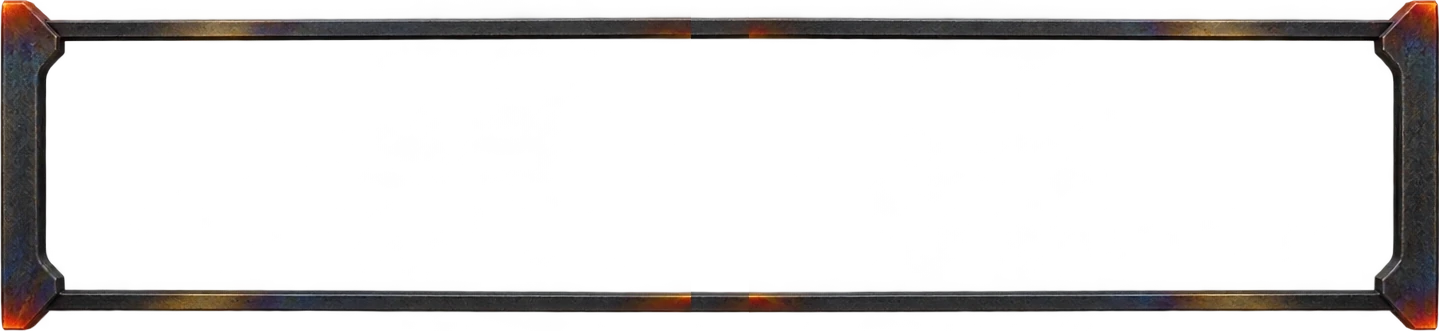
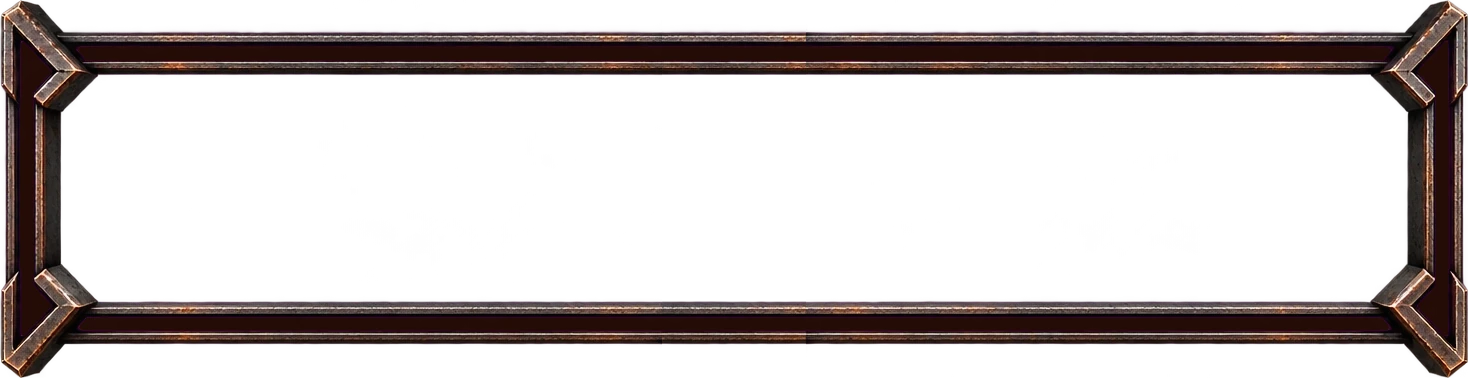
Infernal skin: a new frame with a channel along its rails, brackets and pointers where molten lava flows and glows (also in the launch plate's corners)

diff --git a/ui/app.css b/ui/app.css
@@ -1997,9 +1997,9 @@ img.ring-master { box-shadow: 0 0 10px rgba(255, 211, 107, .75); }
 .strip-hud .pt { top: 0; height: calc(var(--pth) * var(--k) * 1px); --img: var(--ptr-t); --gl: var(--ptr-t-glow); }
 .strip-hud .pb { bottom: 0; height: calc(var(--pbh) * var(--k) * 1px); --img: var(--ptr-b); --gl: var(--ptr-b-glow); }
 :root[data-roulette="infernal"] .strip-hud { display: block; }
-:root[data-roulette="infernal"] :is(.strip, .gs-strip) { --edge-t: 19; --edge-b: 20; --edge-s: 1; --k: 0.85; --top: 40; --bottom: 40; --left: 71; --right: 72; --pw: 58; --pth: 63; --pbh: 60;
+:root[data-roulette="infernal"] :is(.strip, .gs-strip) { --edge-t: 32; --edge-b: 34; --edge-s: 5; --k: 0.5; --top: 75; --bottom: 77; --left: 102; --right: 97; --pw: 144; --pth: 113; --pbh: 116;
   --frame: url("hud/infernal_frame.webp"); --frame-glow: url("hud/infernal_frame_glow.webp"); --ptr-t: url("hud/infernal_ptr_t.webp"); --ptr-t-glow: url("hud/infernal_ptr_t_glow.webp"); --ptr-b: url("hud/infernal_ptr_b.webp"); --ptr-b-glow: url("hud/infernal_ptr_b_glow.webp"); }
-:root[data-roulette="infernal"] .gs-strip { --k: 0.4; }
+:root[data-roulette="infernal"] .gs-strip { --k: 0.235; }
 :root[data-roulette="prism"] .strip-hud { display: block; }
 :root[data-roulette="prism"] :is(.strip, .gs-strip) { --edge-t: 32; --edge-b: 34; --edge-s: 4; --k: 0.5; --top: 71; --bottom: 72; --left: 99; --right: 96; --pw: 140; --pth: 109; --pbh: 114;
   --frame: url("hud/prism_frame.webp"); --frame-glow: url("hud/prism_frame_glow.webp"); --ptr-t: url("hud/prism_ptr_t.webp"); --ptr-t-glow: url("hud/prism_ptr_t_glow.webp"); --ptr-b: url("hud/prism_ptr_b.webp"); --ptr-b-glow: url("hud/prism_ptr_b_glow.webp"); }
@@ -2123,12 +2123,14 @@ img.ring-master { box-shadow: 0 0 10px rgba(255, 211, 107, .75); }
 @keyframes matterPos { to { background-position: 120px 60px; } }
 .launch .lm { display: none; position: absolute; inset: 0; overflow: hidden; pointer-events: none; }
 .launch .lt { position: relative; z-index: 1; }
+:root[data-roulette="infernal"] .rl-page .launch .lm { display: block; -webkit-mask-box-image-source: url("hud/infernal_primary_glow.webp"); -webkit-mask-box-image-slice: 68 68 68 68; -webkit-mask-box-image-width: 23px 23px 23px 23px; -webkit-mask-box-image-repeat: stretch; }
 :root[data-roulette="void"] .rl-page .launch .lm { display: block; -webkit-mask-box-image-source: url("hud/void_primary_glow.webp"); -webkit-mask-box-image-slice: 73 73 73 73; -webkit-mask-box-image-width: 25px 25px 25px 25px; -webkit-mask-box-image-repeat: stretch; }
 :root[data-roulette="prism"] .rl-page .launch .lm { display: block; -webkit-mask-box-image-source: url("hud/prism_primary_glow.webp"); -webkit-mask-box-image-slice: 74 74 74 74; -webkit-mask-box-image-width: 25px 25px 25px 25px; -webkit-mask-box-image-repeat: stretch; }
+:root[data-roulette="infernal"] { --matter: url("hud/infernal_matter.webp"); --matter-blend: screen; }
 :root[data-roulette="void"] { --matter: url("hud/void_matter.webp"); }
 :root[data-roulette="prism"] { --matter: url("hud/prism_matter.webp"); --matter-blend: soft-light; }
-:root[data-roulette="void"] .strip-hud .hm, :root[data-roulette="prism"] .strip-hud .hm { display: block; }
-:root[data-roulette="void"] .strip-hud b s, :root[data-roulette="prism"] .strip-hud b s { display: block; }
+:root:is([data-roulette="infernal"], [data-roulette="void"], [data-roulette="prism"]) .strip-hud .hm { display: block; }
+:root:is([data-roulette="infernal"], [data-roulette="void"], [data-roulette="prism"]) .strip-hud b s { display: block; }
 .strip.spinning .strip-hud .hm s { animation-duration: 3s; }
 .strip.spinning .strip-hud .hm s + s { animation-duration: 4.5s; }
 @media (prefers-reduced-motion: reduce) { .strip-hud .hm s, .strip-hud b s, .launch .lm s { animation: none; } }
